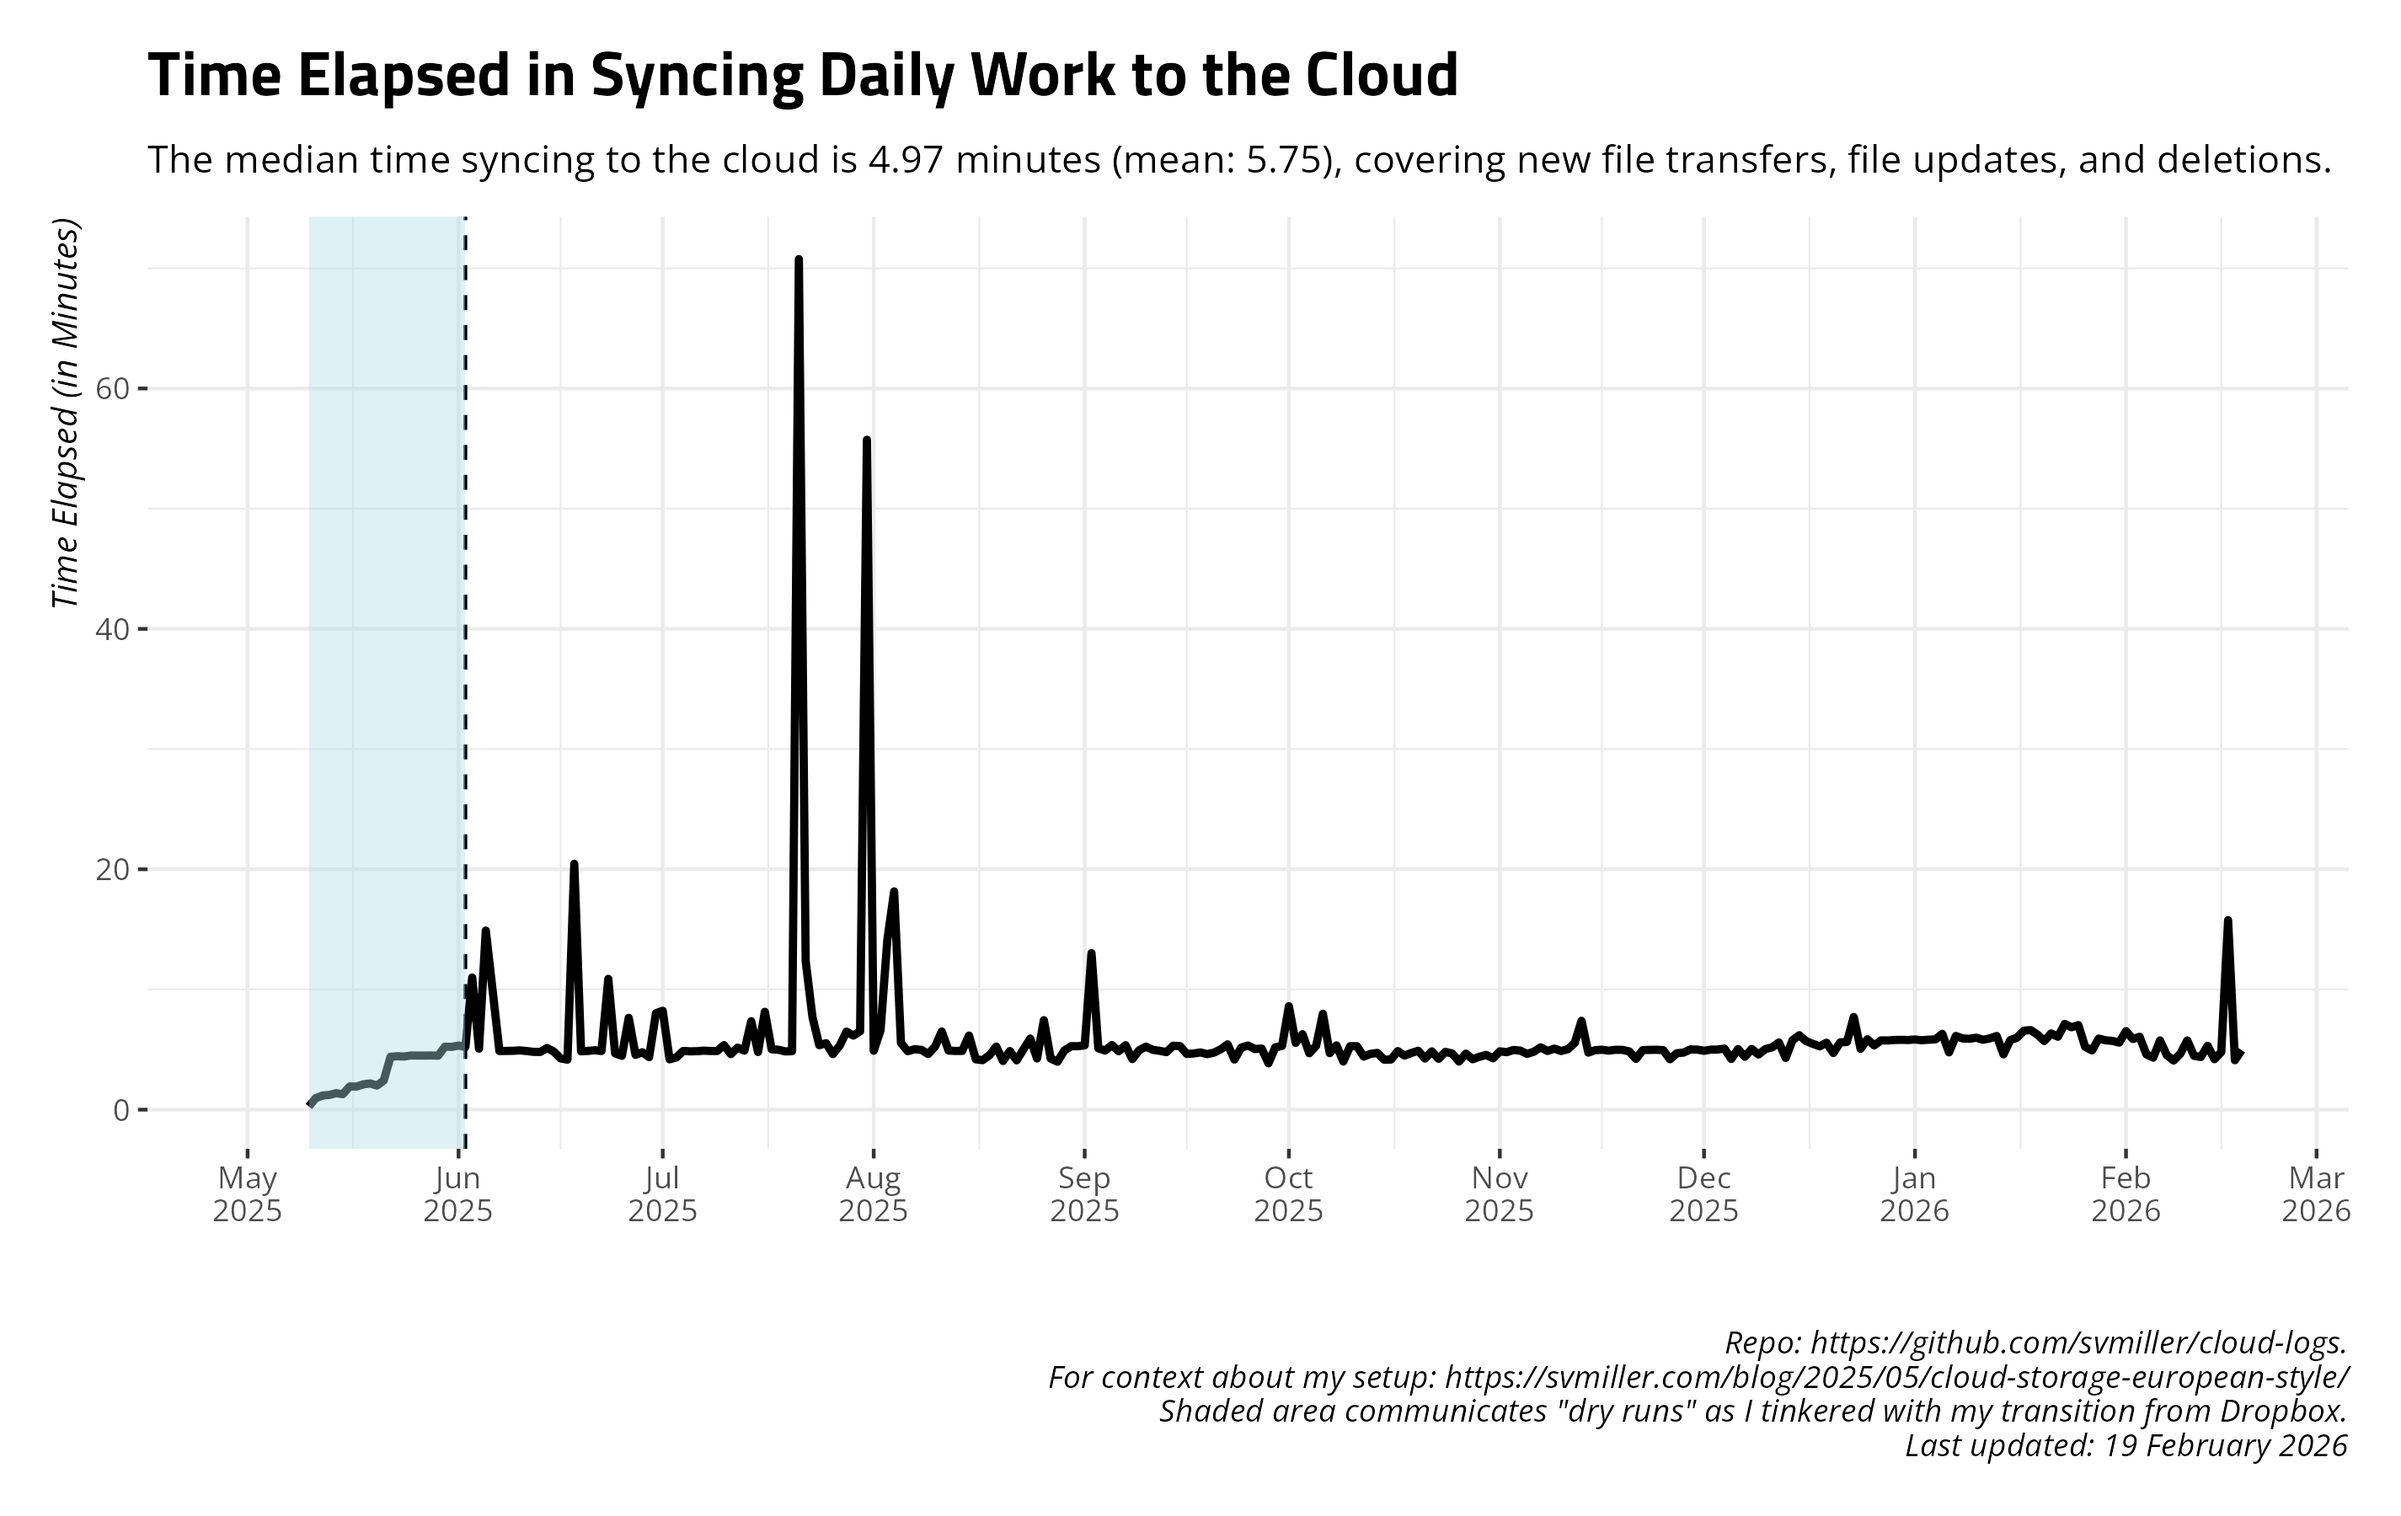
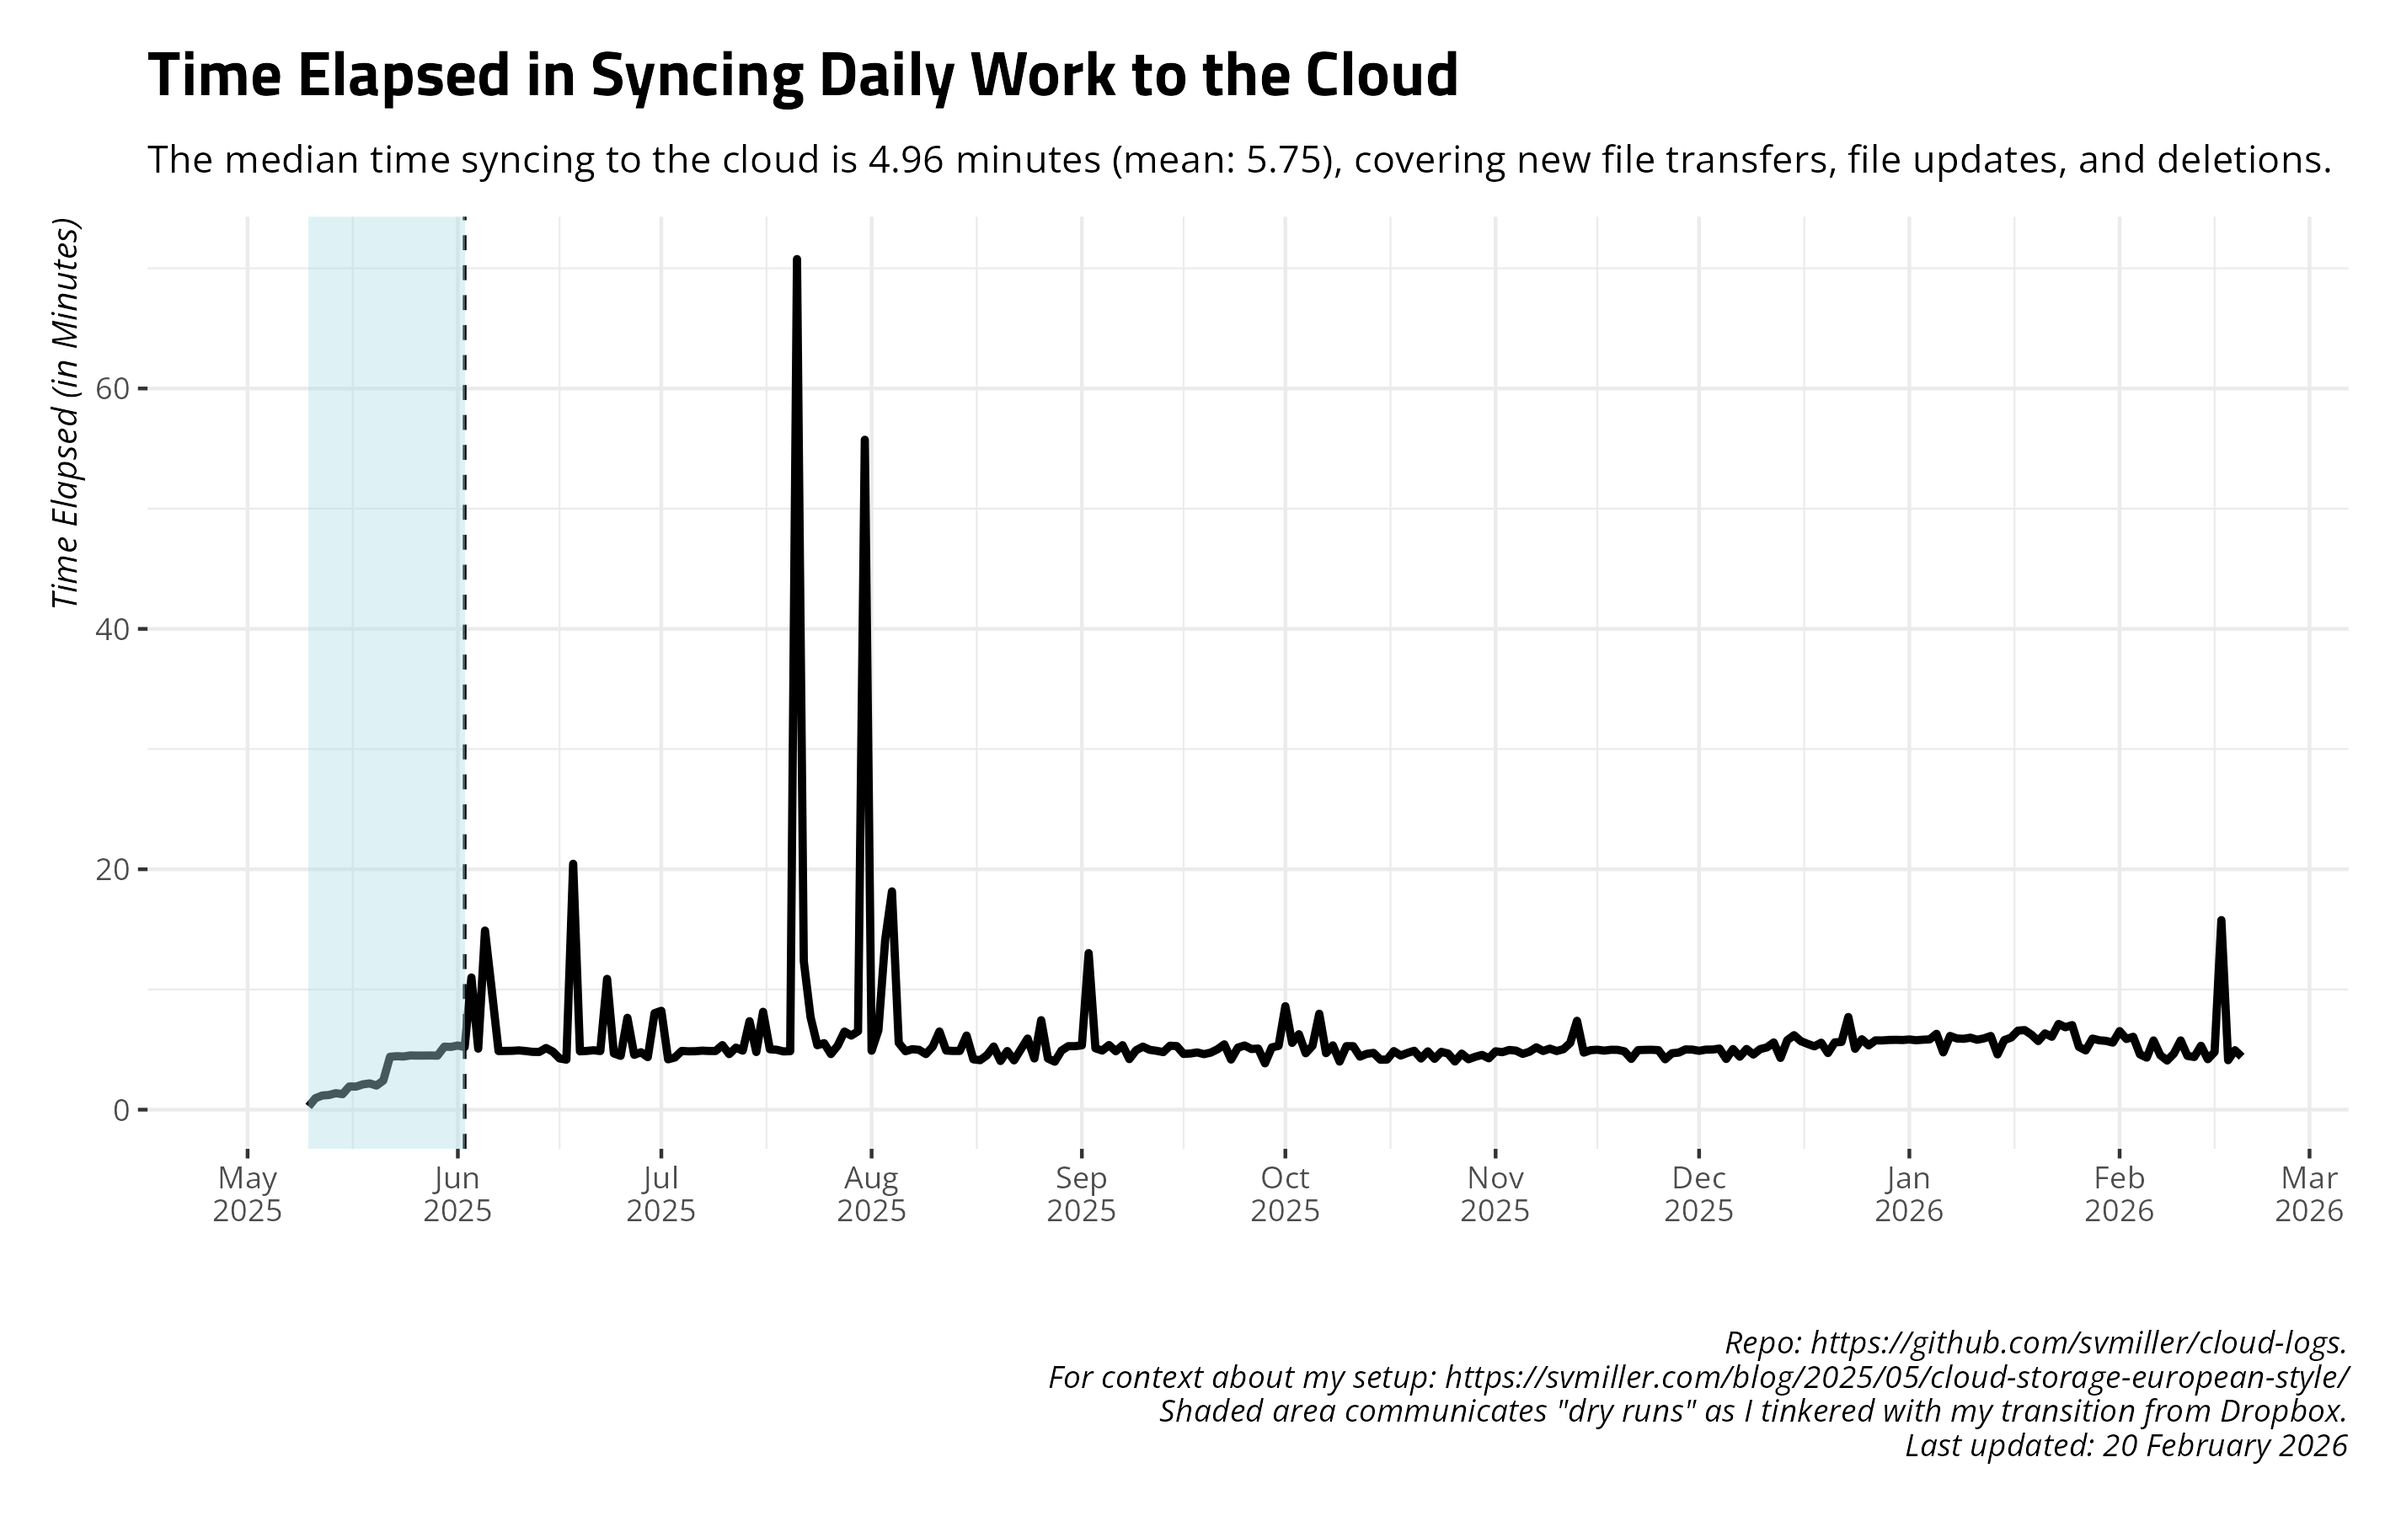
Date: 2026-02-20 09:00:22. Hi mom!

diff --git a/README.md b/README.md
@@ -27,17 +27,17 @@ and uploads to Github.
     #> # A tibble: 14 × 4
     #>    date       ftransfer stransfer   elapsed 
     #>    <date>         <dbl> <chr>       <chr>   
-    #>  1 2026-02-05        10 255.844 KiB 4m19.8s 
-    #>  2 2026-02-06         0 <NA>        5m45.5s 
-    #>  3 2026-02-07        17 378.836 KiB 4m31.8s 
-    #>  4 2026-02-08        18 2.016 MiB   4m5.3s  
-    #>  5 2026-02-09         4 128.871 KiB 4m40.1s 
-    #>  6 2026-02-10         6 7.213 MiB   5m45.6s 
-    #>  7 2026-02-11         0 <NA>        4m28.5s 
-    #>  8 2026-02-12         3 38.536 KiB  4m23.0s 
-    #>  9 2026-02-13         0 <NA>        5m18.8s 
-    #> 10 2026-02-14         0 <NA>        4m11.9s 
-    #> 11 2026-02-15         1 56.647 KiB  4m47.6s 
-    #> 12 2026-02-16        14 149.346 KiB 15m46.2s
-    #> 13 2026-02-17        32 7.148 MiB   4m6.9s  
-    #> 14 2026-02-18         0 <NA>        4m56.9s
+    #>  1 2026-02-06         0 <NA>        5m45.5s 
+    #>  2 2026-02-07        17 378.836 KiB 4m31.8s 
+    #>  3 2026-02-08        18 2.016 MiB   4m5.3s  
+    #>  4 2026-02-09         4 128.871 KiB 4m40.1s 
+    #>  5 2026-02-10         6 7.213 MiB   5m45.6s 
+    #>  6 2026-02-11         0 <NA>        4m28.5s 
+    #>  7 2026-02-12         3 38.536 KiB  4m23.0s 
+    #>  8 2026-02-13         0 <NA>        5m18.8s 
+    #>  9 2026-02-14         0 <NA>        4m11.9s 
+    #> 10 2026-02-15         1 56.647 KiB  4m47.6s 
+    #> 11 2026-02-16        14 149.346 KiB 15m46.2s
+    #> 12 2026-02-17        32 7.148 MiB   4m6.9s  
+    #> 13 2026-02-18         0 <NA>        4m56.9s 
+    #> 14 2026-02-19        18 68.442 KiB  4m24.1s
